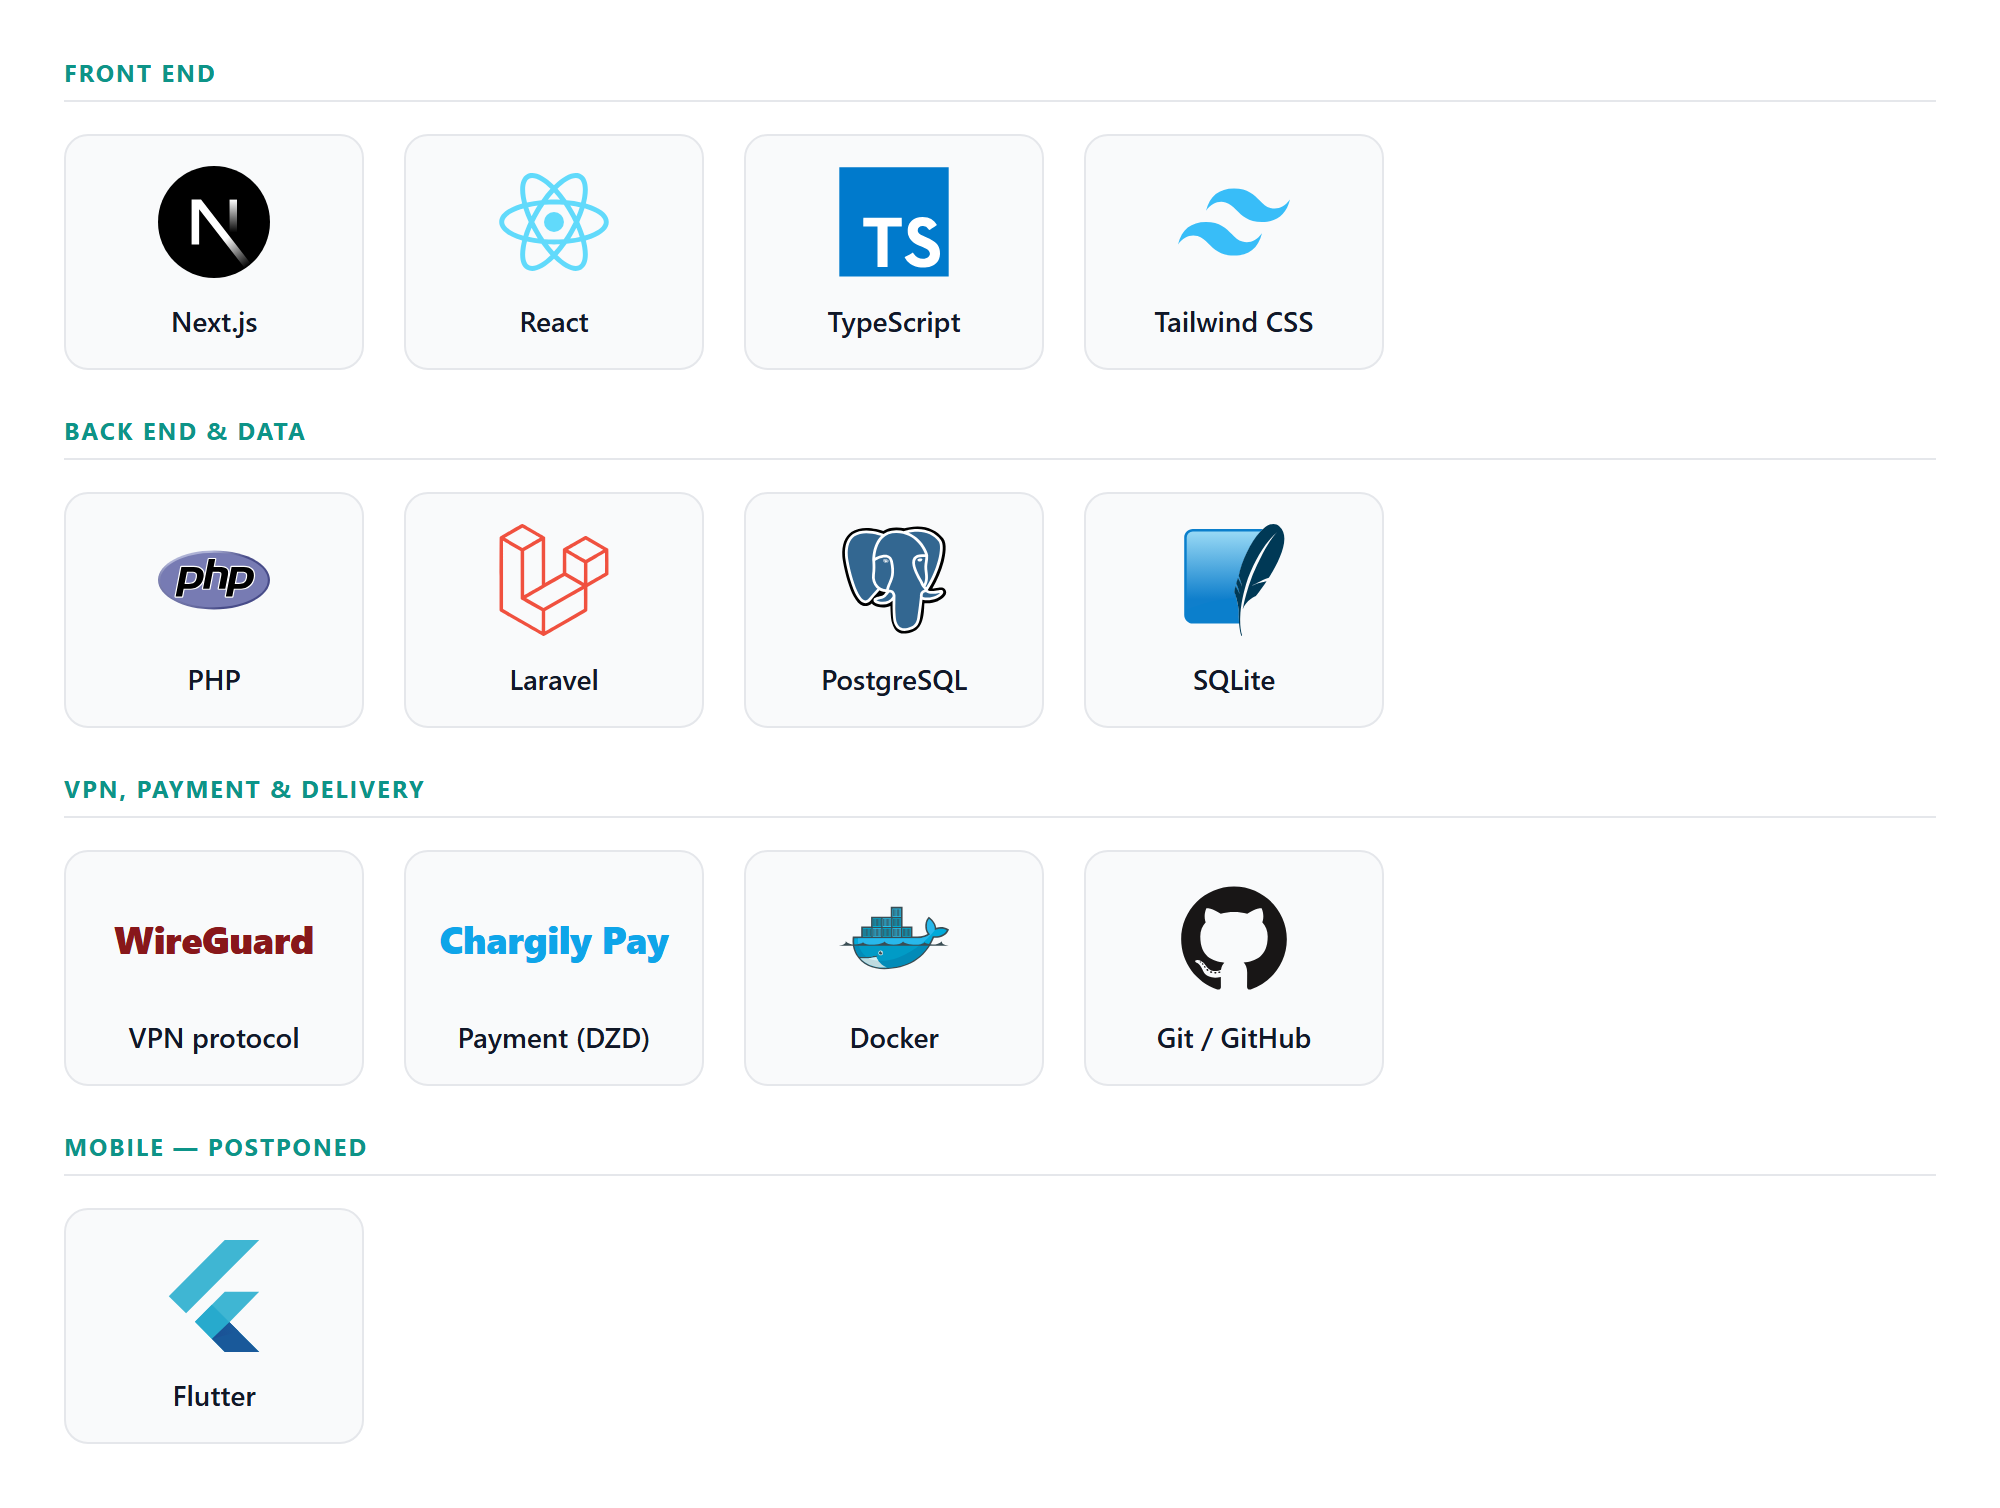
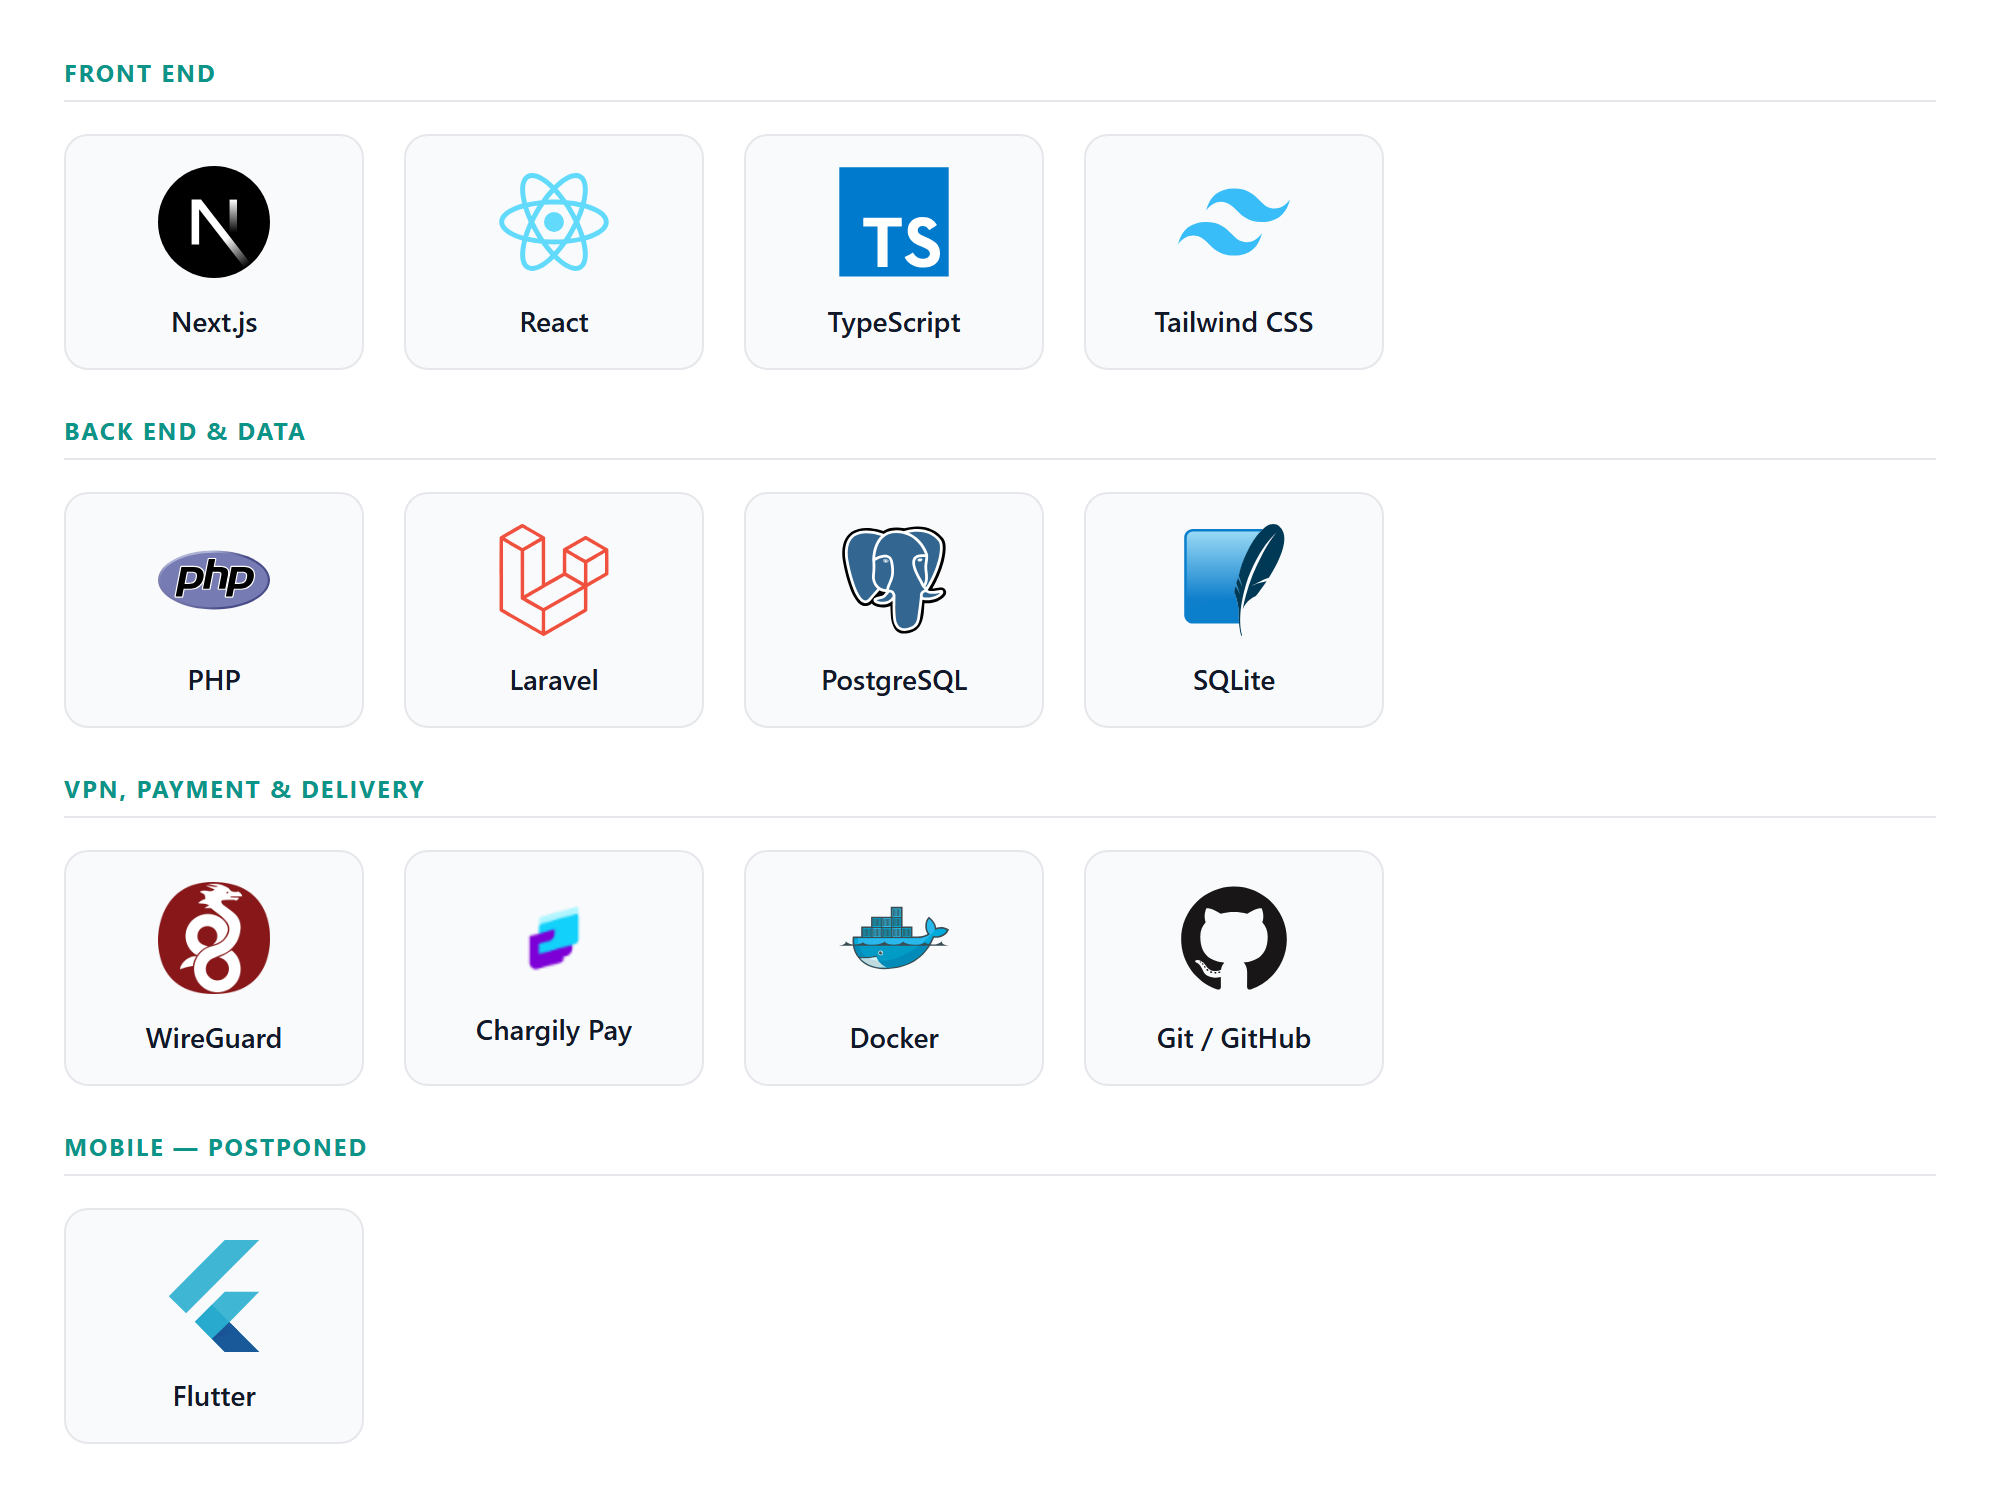
docs(memoire): full form+content review, apply guide form rules
Reviewed Chapters II–IV against the methodology guide (the official rule,
priority 1), the 19/20 reference (style/level), the supervisor's structure
and the code. Findings and status in docs/memoire/review-report.md.

Form fixes applied (guide rules that were off):
- headings 16/14/12 are now BOLD + UNDERLINED (guide p6 rule); the guide's
  own example shows bold-italic and the reference uses bold+navy — left as
  decision D1 for the student;
- figure/table/listing captions are now CENTRED (reference style).

Also: the Figure IV.1 overview montage now uses the official WireGuard
dragon icon and the Chargily mark instead of text badges (P13 done).

Content review: spelling is consistently British (quotes/official names
excepted); cross-references all resolve (incl. the renumbered IV tables);
no draft notes leak into the output; structure II.1–II.6 / III.1–III.12 /
IV.1–IV.7 is complete. Open style decisions D1–D3 are in the report.

Changed region(s): [[0.217, 0.5922, 0.341, 0.7168], [0.062, 0.561, 0.155, 0.7168]]

diff --git a/docs/memoire/figures/logos/montage.html b/docs/memoire/figures/logos/montage.html
@@ -48,8 +48,8 @@
     <div class="group">
       <div class="label">VPN, payment &amp; delivery</div>
       <div class="row">
-        <div class="item"><div class="badge" style="color:#88171a">WireGuard</div><div class="name">VPN protocol</div></div>
-        <div class="item"><div class="badge" style="color:#0ea5e9">Chargily&nbsp;Pay</div><div class="name">Payment (DZD)</div></div>
+        <div class="item"><img src="src/wireguard-icon.ico"><div class="name">WireGuard</div></div>
+        <div class="item"><img src="src/chargily.ico"><div class="name">Chargily Pay</div></div>
         <div class="item"><img src="src/docker.svg"><div class="name">Docker</div></div>
         <div class="item"><img src="src/github.svg"><div class="name">Git / GitHub</div></div>
       </div>

diff --git a/docs/memoire/build/make_reference.py b/docs/memoire/build/make_reference.py
@@ -52,7 +52,10 @@ for sname in ['Normal', 'Body Text', 'First Paragraph', 'Compact']:
 for hname, size in {'Heading 1': 16, 'Heading 2': 14, 'Heading 3': 12, 'Heading 4': 12}.items():
     try:
         st = styles[hname]
-        set_font(st, size=size, bold=True, italic=False, underline=False, color=RGBColor(0, 0, 0))
+        # Guide rule (p6 "Caractéristiques de présentation"): chapter/section/sub-section titles are
+        # 16/14/12, BOLD and UNDERLINED. (The guide's own example on p8 shows bold-italic, and the
+        # 19/20 reference uses bold + navy colour without underline — see review-report.md, Q-12.)
+        set_font(st, size=size, bold=True, italic=False, underline=True, color=RGBColor(0, 0, 0))
         pf = st.paragraph_format
         pf.space_before = Pt(12); pf.space_after = Pt(6)
         pf.line_spacing_rule = WD_LINE_SPACING.SINGLE

diff --git a/docs/memoire/build/fix_docx.py b/docs/memoire/build/fix_docx.py
@@ -30,8 +30,9 @@ caption = re.compile(r'^(Figure|Table|Listing)\s+[IVXLCDM]+\.\d+\s+[—\-]')
 n = 0
 for p in doc.paragraphs:
     if caption.match(p.text):
-        p.paragraph_format.alignment = WD_ALIGN_PARAGRAPH.LEFT
+        # Centered captions, as in the 19/20 reference (the guide only requires the source below).
+        p.paragraph_format.alignment = WD_ALIGN_PARAGRAPH.CENTER
         n += 1
 
 doc.save(sys.argv[1])
-print('post-processed: code left-aligned, %d captions left-aligned:' % n, sys.argv[1])
+print('post-processed: code left-aligned, %d captions centred:' % n, sys.argv[1])

diff --git a/docs/memoire/review-report.md b/docs/memoire/review-report.md
@@ -1,0 +1,55 @@
+# Review report — Chapters II, III, IV (form + content)
+
+> Full review of everything written so far against (1) the **methodology guide** (`docs/memoire-ref/Methodologie_Redaction_Memoire_BTS.pdf`, 10 pp — the official rule, priority 1), (2) the **19/20 reference** (`…Benoui_Sami_Mebbani…pdf`, 103 pp — style/level model), (3) the supervisor's structure (via `content-spec.md`) and `decisions.md`, and (4) the chapters themselves (`ch2.md`, `ch3.md`, `ch4.md`) and their generated PDF. Date: **2026-10-11**.
+>
+> **Rule applied:** where the guide and the reference disagree on form, the **guide wins** (and the difference is noted here). Items I could fix, I fixed; items that need the student's decision are in §D.
+
+## A. Form vs the methodology guide (priority 1)
+
+| # | Rule (guide) | Our state | Verdict |
+|---|---|---|---|
+| A1 | Margins 3 cm L / 2 cm R / 2.5 cm T&B (p6) | `reference.docx`: 3 / 2 / 2.5 | ✅ compliant |
+| A2 | Times New Roman 12, single line spacing (p6) | Normal/Body = TNR 12, single | ✅ compliant |
+| A3 | Page number **top-right** (p6) | Header, right-aligned PAGE field | ✅ compliant (the reference uses bottom-centre; we follow the **guide**) |
+| A4 | Numbering **starts at the Introduction** (p6) | Per-chapter PDFs number from 1 | ⏳ done at final assembly (front matter unnumbered) — P11 |
+| A5 | Titles 16/14/12 **bold + underlined** (p6) | Were bold only → **changed to bold + underlined** | ✅ **fixed** (but guide p8 shows bold-italic and the reference uses bold+colour → decision **D1**) |
+| A6 | Footnotes: AUTHOR (First name): *Title*, publisher, place, year, page; regulatory = type+number+date+domain; website = URL + **date & time** (p7) | `AUTHOR (First): *Title*…` used; websites have the date | ✅ format compliant; website **time** missing → P2 (student) |
+| A7 | Figures/tables numbered + titled + **source just below**; listed at the front (p9) | Caption + source under each; `lists.md` holds the lists | ✅ compliant (captions now **centred**, A7-style) |
+| A8 | Conclusion = 6 points (p9) | Chapter conclusions are short transitions | ⏳ the **6 points** apply to the *General* conclusion (not yet written) |
+| A9 | Bibliography after the conclusion, grouped, alphabetical, no page numbers (p9–10) | Footnotes carry full refs; grouped bibliography | ⏳ assembled at the end from the footnotes |
+| A10 | Preliminary pages + order (cover → … → table of contents at end) (p3–4) | — | ⏳ final assembly — P10 |
+
+## B. Form vs the 19/20 reference (style and level)
+
+| # | Reference | Our state | Verdict |
+|---|---|---|---|
+| B1 | Decimal numbering (I.1, I.4.1, II.2.1) | IV.1, IV.1.1 | ✅ matches |
+| B2 | Use-case table: Titre / Acteur / Description / Pré-condition / Scénario nominal / Scénario alternatif | Same 6 rows (Title / Actor / Description / Pre-condition / Nominal / Alternative) | ✅ matches (ours has 21 tables vs 6) |
+| B3 | Ch III = project, actors, roles, use-case tables, use-case + sequence diagrams, class diagram, relational model, data dictionary, business rules, cardinalities, Gantt | Same (III.1–III.12) | ✅ matches; ours is deeper |
+| B4 | Each technology shown with its **logo + a paragraph** (IV.1) | Added per-technology logos in IV.1 (Part 2) | ✅ matches |
+| B5 | Each chapter opens on a **decorative title page**; a **coloured running header** carries the chapter name | Chapters start on a new page; no title page / running header | ⚠ optional polish — decision **D2** (not required by the guide) |
+| B6 | Headings are **navy-coloured** | Headings are black | ✅ guide does not require colour → we keep black (decision D1 covers colour) |
+| B7 | Chapter title "Chapitre II : …" (colon) | "CHAPTER II — …" (em-dash, English) | ℹ English style; kept (decision D3) |
+| B8 | Table/figure captions **centred**, italic | Captions now **centred** (title bold, source italic) | ✅ matches |
+| B9 | Depth per chapter | Ours meets/exceeds, per the supervisor's extra sections (architecture, modules, security, tests, deployment, CI) | ✅ |
+
+## C. Content and consistency (all chapters)
+
+| # | Check | Result |
+|---|---|---|
+| C1 | English spelling — one variety everywhere | ✅ **British** throughout (-ise/-isation, behaviour, modelling, anonymise, catalogue…). Exceptions are justified: "visualizing" is inside a verbatim OMG UML quote; "International **Organization** for Standardization" (ISO) and "**Organisation** for Economic Co-operation" (OECD) are official names |
+| C2 | Cross-references (figure/table/section/gap numbers) | ✅ valid. Ch IV tables were renumbered IV.1–IV.4 after the logo change; all in-text refs updated; no stale Table IV.5/IV.6; Figure IV.1–IV.31, sections IV.1–IV.7, gaps G-05–G-13 all resolve |
+| C3 | No leftover draft notes/comments in the output | ✅ the `<!-- … -->` headers, the `## Notes` heading and the trailing `---` are stripped by `preprocess.py`; only the **intended** mobile/Gantt/live-evidence placeholder call-outs remain |
+| C4 | Facts match the code | ✅ re-verified during writing; the public site's marketing claims were aligned with the code in Part 1 |
+| C5 | Consistent terminology | ✅ WireGuard®, Chargily Pay v2, EDAHABIA/CIB, DZD, 131 tests / 508 assertions, pool 10.66.0.0/16 used consistently |
+| C6 | Supervisor structure completeness | ✅ II.1–II.6, III.1–III.12, IV.1–IV.7 all present with their subsections |
+
+## D. Decisions for the student
+
+- **D1 — Heading style (Q-12).** The guide's **rule** (p6) says chapter/section/sub-section titles are **bold + underlined**; I applied that. But the guide's own **example** (p8) shows **bold + italic**, and the **19/20 reference** uses **bold + navy colour, no underline** (which looks more modern). All three are defensible. → **Confirm bold + underlined, or switch to one of the others.**
+- **D2 — Reference polish (optional).** The reference gives each chapter a **decorative title page** (banner + "Chapitre N : title") and a **coloured running header** with the chapter name on every page. The guide requires neither. → **Add them, or keep the plainer current layout?**
+- **D3 — Chapter-title separator.** We use "CHAPTER II — Title" (em-dash); the reference uses a colon. Kept the em-dash as the English norm. → change to a colon if preferred.
+
+## Summary
+
+No correctness or consistency problems were found in the written chapters. The form matches the guide on every measurable rule; the two form items that were off (heading underline, caption alignment) are fixed. The remaining open items are the three **style decisions** in §D and the items that can only be completed at final assembly (preliminary pages, page-numbering start, general conclusion's 6 points, grouped bibliography) and by the student (footnote access times) — all already tracked in `placeholders.md`.

diff --git a/docs/memoire/placeholders.md b/docs/memoire/placeholders.md
@@ -19,10 +19,13 @@ Legend for *Blocked by*: 👤 student · 🏢 EADN visit · 🚀 deployment (Pha
 | P10 | Preliminary pages | (assembled at the end) | **Cover, dedications, acknowledgements, abstracts (FR/AR/EN)** and the cover facts (institute, speciality, promotion, year, supervisor name + grade, author names); Arabic abstract checked by a native speaker | 👤 |
 | P11 | Front matter | `lists.md` → final lists | **Page numbers** in the lists of figures / tables / code listings / abbreviations and the table of contents; added when the final Word document is assembled | (end) |
 | P12 | IV · IV.7.2 | `chapters/ch4.md` | **Live CI/CD evidence**: a green GitHub Actions run and the automatic Render/Vercel deployments — after the repo is pushed to GitHub (the workflows themselves are done, see P9) | 🚀 |
-| P13 | IV · IV.1 (Figure IV.1) | `figures/tech-stack.png` | *Optional polish:* WireGuard and Chargily are shown as branded text badges (no standard icon-set logo); their official brand logos can be swapped in at assembly if wanted (sources in `figures/logos-sources.md`) | 👤 |
+
+> **Style decisions** raised by the full review are tracked separately in `review-report.md` §D (heading style D1, optional chapter title pages / coloured headers D2, chapter-title separator D3).
 
 ## Filled / resolved
 *(moved here as completed, with the date.)*
 
 - **P9 — CI workflows at the repository root (G-11).** Done 2026-10-11: created `.github/workflows/backend-tests.yml` (PHPUnit on PHP 8.2 & 8.3) and `.github/workflows/frontend.yml` (pnpm lint + `tsc --noEmit` + build); removed the old inert copies under `nexus-vpn/.github/workflows/`. The **live run** evidence is now tracked as P12.
-- **Test count refreshed.** 2026-10-11: the backend suite is **131 tests / 508 assertions** (was 130 before this session's `DemoDataSeederTest`); `docs/pfe/memoire-assets/tests/test-output.txt` regenerated and Table IV.5 built from it.
+- **Test count refreshed.** 2026-10-11: the backend suite is **131 tests / 508 assertions** (was 130 before this session's `DemoDataSeederTest`); `docs/pfe/memoire-assets/tests/test-output.txt` regenerated and the test table built from it.
+- **P13 — Figure IV.1 logos.** Done 2026-10-11: the official **WireGuard** dragon icon and **Chargily** mark (from their favicons) now appear both in the per-technology logos of IV.1 and in the Figure IV.1 overview montage (no more text badges).
+- **Marketing claims (R-09).** Done 2026-10-11: the public site was aligned with the real implementation (Part 1); no longer a "mock-up" caveat in the mémoire.
